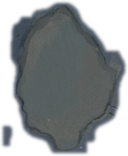
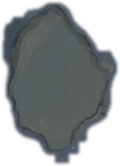
fix: tidy the tarmac patch decals and make --derive safer
Code review fixes: the grey patch keeps its pointed tip and loses a stray
speck (largest blob only), derived files are no longer rebuilt silently after
raw runs, a box with no patch in it stops with an error, pixels are rounded
rather than truncated, the fill search is one FFT per hole, and the site shows
when an output was added.

Claude-Session: https://claude.ai/code/session_018UfZTkmvT4WGTLuizPVgav

diff --git a/site/app.js b/site/app.js
@@ -126,7 +126,7 @@
     const uses = (a.used_by || []).map((g) => `<div><span class="game ${esc(g)}">${esc(GAMES[g] || g)}</span><div>${esc((a.uses || {})[g] || "")}</div></div>`).join("");
     const files = outs.length ? `<table class="d-files"><thead><tr><th>${a.status === "shipped" ? "File" : "Will be saved as"}</th><th>${a.status === "shipped" ? "Size" : "Width"}</th><th>Anchor</th></tr></thead><tbody>${outs.map((o) => {
       const res = `res://addons/street_kit/${o.path}`;
-      return `<tr><td><code>${esc(o.path)}</code>${copyButton(res, "Copy res:// path")}</td><td>${o.size ? esc(o.size.join(" × ")) + " px" : o.width ? esc(o.width) + " px" : ""}</td><td>${esc(o.anchor || "")}</td></tr>`;
+      return `<tr><td><code>${esc(o.path)}</code>${o.since ? ` <small>since v${esc(o.since)}</small>` : ""}${copyButton(res, "Copy res:// path")}</td><td>${o.size ? esc(o.size.join(" × ")) + " px" : o.width ? esc(o.width) + " px" : ""}</td><td>${esc(o.anchor || "")}</td></tr>`;
     }).join("")}</tbody></table>` : `<p class="d-note">No files yet. Variants planned: ${esc((a.variants || []).join(", ") || "one")}.</p>`;
     const sc = a.spritecook || {};
     const scBlock = sc.asset_id || sc.prompt ? `<details><summary>SpriteCook source</summary>

diff --git a/tools/process_spritecook.py b/tools/process_spritecook.py
@@ -20,7 +20,8 @@ An output can instead be made from another kit file, with no SpriteCook download
   "mode":  plain_texture  the texture with its painted patches lifted out ("remove": list of
                           {"box": [x, y, w, h], "threshold": t}; boxes may cross the edge, it wraps)
            cutout         one patch from the texture as a decal on transparency ("box", "threshold")
-Derived outputs are rebuilt after every raw run, so they follow their source.
+Derived outputs are rebuilt only by --derive. A raw run that rewrites a source lists them, because
+their boxes are tied to that exact painting and must be checked first.
 Outputs are written deterministically, and "size" and "sha12" are filled in.
 Needs Pillow and numpy.
 """
@@ -123,27 +124,64 @@ def _shrink(mask: np.ndarray, px: int) -> np.ndarray:
     return 1.0 - _grow(1.0 - mask, px)
 
 
-def _patch_mask(rgb: np.ndarray, box: list, threshold: float) -> np.ndarray:
-    """Pixels inside [box] whose colour stands out from the texture's usual colour: a painted
-    patch, darker, lighter or warmer than the ground around it."""
-    h, w = rgb.shape[:2]
+def _score(rgb: np.ndarray) -> np.ndarray:
+    """How far each pixel stands out from the texture's usual colour: a painted patch is
+    darker, lighter or warmer than the ground around it."""
     soft = _wrap_blur(rgb, 3)
     usual = np.median(rgb.reshape(-1, 3), axis=0)
-    score = np.maximum(np.abs((soft - usual).mean(2)) / 14,
-                       ((soft[..., 0] - soft[..., 2]) - (usual[0] - usual[2])) / 12)
+    return np.maximum(np.abs((soft - usual).mean(2)) / 14,
+                      ((soft[..., 0] - soft[..., 2]) - (usual[0] - usual[2])) / 12)
+
+
+def _largest_part(mask: np.ndarray) -> np.ndarray:
+    """Keeps only the biggest connected blob of a mask (wrapping), dropping stray specks."""
+    h, w = mask.shape
+    on = mask > 0.5
+    seen = np.zeros_like(on)
+    best: list = []
+    for y0, x0 in zip(*np.nonzero(on)):
+        if seen[y0, x0]:
+            continue
+        part, todo = [], [(y0, x0)]
+        seen[y0, x0] = True
+        while todo:
+            y, x = todo.pop()
+            part.append((y, x))
+            for ny, nx in ((y - 1, x), (y + 1, x), (y, x - 1), (y, x + 1)):
+                ny, nx = ny % h, nx % w
+                if on[ny, nx] and not seen[ny, nx]:
+                    seen[ny, nx] = True
+                    todo.append((ny, nx))
+        if len(part) > len(best):
+            best = part
+    out = np.zeros_like(mask)
+    if best:
+        ys, xs = zip(*best)
+        out[list(ys), list(xs)] = 1
+    return out
+
+
+def _patch_mask(score: np.ndarray, box: list, threshold: float, what: str) -> np.ndarray:
+    """The patch inside [box]: pixels scoring above [threshold], with small gaps closed."""
+    h, w = score.shape
     x, y, bw, bh = box
     inside = np.zeros((h, w))
     inside[np.ix_(np.arange(y, y + bh) % h, np.arange(x, x + bw) % w)] = 1
-    return _shrink(_grow((score > threshold) * inside, 6), 6)
+    mask = _shrink(_grow((score > threshold) * inside, 6), 6)
+    if mask.sum() < 400:
+        sys.exit(f"{what}: no painted patch found in box {box}. If the source was repainted, "
+                 "find the new patches and update the boxes in manifest.json.")
+    return mask
 
 
-def plain_texture(im: Image.Image, removes: list) -> Image.Image:
+def plain_texture(im: Image.Image, removes: list, what: str) -> Image.Image:
     """Lifts painted patches out of a tiling texture. Each one is filled with clean ground
     copied from elsewhere in the same texture, shifted to match the slow colour drift around
     the hole and feathered in, so grain and brushwork carry on through."""
     a = np.asarray(im.convert("RGBA")).astype(np.float64)
     rgb = a[..., :3]
-    masks = [_patch_mask(rgb, r["box"], r["threshold"]) for r in removes]
+    score = _score(rgb)
+    masks = [_patch_mask(score, r["box"], r["threshold"], what) for r in removes]
     everything = np.clip(sum(masks), 0, 1)
     avoid = _grow(everything, 24)
     keep = 1.0 - _grow(everything, 10)
@@ -152,45 +190,53 @@ def plain_texture(im: Image.Image, removes: list) -> Image.Image:
     for mask in masks:
         hole = _grow(mask, 14)
         feather = np.maximum(np.clip(_wrap_blur(hole, 5), 0, 1), _grow(mask, 7))
+        # How much patch a copy shifted by (dy, dx) would bring into the hole, for every
+        # shift at once: a circular cross-correlation.
+        overlap = np.real(np.fft.ifft2(np.fft.fft2(avoid) * np.conj(np.fft.fft2(hole))))
         best = None
         for dy in range(-h // 2, h // 2 + 1, 16):
             for dx in range(-w // 2, w // 2 + 1, 16):
                 if abs(dx) < 120 and abs(dy) < 120:
                     continue
-                cost = (np.roll(avoid, (-dy, -dx), (0, 1)) * hole).sum()
+                cost = round(float(overlap[dy % h, dx % w]), 3)
                 if best is None or cost < best[0]:
                     best = (cost, dx, dy)
         _, dx, dy = best
         fill = np.roll(a, (-dy, -dx), (0, 1))
         fill[..., :3] += drift - np.roll(drift, (-dy, -dx), (0, 1))
         a = a * (1 - feather[..., None]) + fill * feather[..., None]
-    return Image.fromarray(a.clip(0, 255).astype(np.uint8), "RGBA")
+    return Image.fromarray(np.rint(a).clip(0, 255).astype(np.uint8), "RGBA")
 
 
-def cutout(im: Image.Image, box: list, threshold: float) -> Image.Image:
+def cutout(im: Image.Image, box: list, threshold: float, what: str) -> Image.Image:
     """One painted patch from a texture, with a soft edge, on transparency."""
     a = np.asarray(im.convert("RGBA")).astype(np.float64)
-    alpha = np.clip(_wrap_blur(_grow(_patch_mask(a[..., :3], box, threshold), 3), 1.5), 0, 1)
+    mask = _largest_part(_patch_mask(_score(a[..., :3]), box, threshold, what))
+    alpha = np.clip(_wrap_blur(_grow(mask, 3), 1.5), 0, 1)
     a[..., 3] = alpha * 255
     # roll the patch away from the edges so it is in one piece, then trim
     x, y, bw, bh = box
     a = np.roll(a, (a.shape[0] // 2 - (y + bh // 2), a.shape[1] // 2 - (x + bw // 2)), (0, 1))
-    return trim(Image.fromarray(a.clip(0, 255).astype(np.uint8), "RGBA"))
+    return trim(Image.fromarray(np.rint(a).clip(0, 255).astype(np.uint8), "RGBA"))
 
 
 def derive() -> int:
     """Rebuilds every output made from another kit file. Returns how many were written."""
     m = json.loads(MANIFEST.read_text())
     done = 0
+    sources: dict = {}
     for asset in m["assets"]:
         for out in asset.get("outputs", []):
             if not out.get("from"):
                 continue
-            im = Image.open(ROOT / out["from"]).convert("RGBA")
+            if out["from"] not in sources:
+                sources[out["from"]] = Image.open(ROOT / out["from"]).convert("RGBA")
+            im = sources[out["from"]]
+            what = f"{asset['id']} ({out['path']})"
             if out["mode"] == "plain_texture":
-                res = plain_texture(im, out["remove"])
+                res = plain_texture(im, out["remove"], what)
             elif out["mode"] == "cutout":
-                res = cutout(im, out["box"], out["threshold"])
+                res = cutout(im, out["box"], out["threshold"], what)
             else:
                 sys.exit(f"{asset['id']}: unknown derived mode {out['mode']!r}")
             dest = ROOT / out["path"]
@@ -239,8 +285,13 @@ def process(raw_dir: Path) -> None:
             print(f"{out['path']}  {res.width}x{res.height}  {out['sha12']}")
             done += 1
     MANIFEST.write_text(json.dumps(m, indent=2, ensure_ascii=False) + "\n")
-    done += derive()
     print(f"{done} file(s) written; manifest.json updated.")
+    written = {out["path"] for a in m["assets"] for out in a.get("outputs", [])
+               if out.get("raw") and (raw_dir / f"{out['raw']}.png").exists()}
+    stale = sorted({out["path"] for a in m["assets"] for out in a.get("outputs", []) if out.get("from") in written})
+    if stale:
+        print("These are made from a file you just rewrote. Check their boxes still sit on the new "
+              "painting, then run --derive:\n  " + "\n  ".join(stale))
 
 
 def check() -> None:

diff --git a/CHANGELOG.md b/CHANGELOG.md
@@ -12,12 +12,13 @@ Versioning for art:
 ## [0.7.0]
 
 - The back-lane tarmac no longer has to repeat its patches. New `art/textures/lane_tarmac_plain.png`
-  (512x512, tiles on both axes) is the same painting with its three patch repairs lifted out, and
+  (512x512, tiles on both axes) is the same painting with its three patch repairs and one faint dark smudge lifted out, and
   the two big patches are now decals in `art/decals/` (`tarmac_patch_dark.png`,
   `tarmac_patch_grey.png`, centre anchor, at the texture's scale) to scatter over it at any angle.
   `lane_tarmac.png` is unchanged.
 - No new SpriteCook run: `tools/process_spritecook.py --derive` makes all three from
-  `lane_tarmac.png`, and rebuilds them after every raw run.
+  `lane_tarmac.png`. Their boxes are tied to that painting, so a raw run that rewrites it lists
+  them to check rather than rebuilding them.
 
 ## [0.6.0]
 
